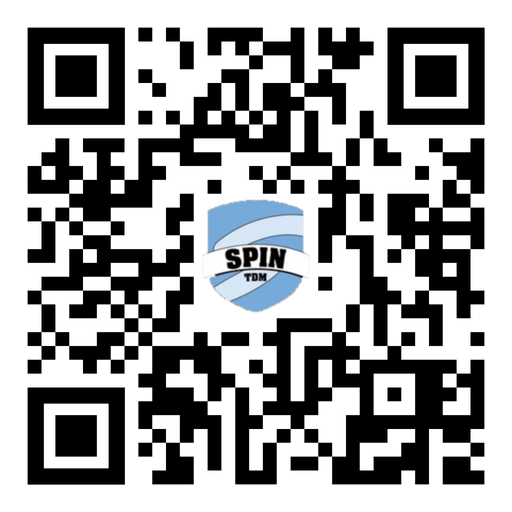
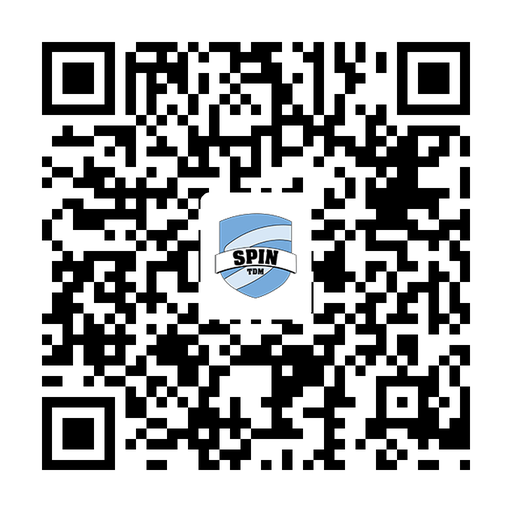
QR directo al sitio (generado, no vence) con el escudo al centro; script qr_image.py
Claude-Session: https://claude.ai/code/session_01QyigXM8Xm15rL6btTa7CXm

diff --git a/scripts/qr_image.py b/scripts/qr_image.py
@@ -1,0 +1,41 @@
+"""QR de cada club (clubes/<slug>/qr.png): apunta directo al sitio del club, con el escudo en el centro.
+
+Es un QR "directo" (la dirección va dentro del código, sin servicios intermedios), así que no vence ni depende de nadie.
+Si cambia la dirección del sitio (config/sitio.json: url + base), hay que volver a generarlo.
+Se corre a mano (no en las Actions). Requiere:  pip install qrcode pillow
+Uso:  python scripts/qr_image.py [--club slug]
+"""
+import argparse
+
+import qrcode
+from PIL import Image, ImageDraw
+from qrcode.constants import ERROR_CORRECT_H
+
+import clubcfg
+
+LADO = 1024
+
+
+def generar(slug):
+    s = clubcfg.sitio()
+    url = f"{s['url'].rstrip('/')}{s.get('base', '/')}{slug}/"
+    qr = qrcode.QRCode(error_correction=ERROR_CORRECT_H, box_size=10, border=4)  # H: tolera tapar ~30% (el escudo ocupa ~12%)
+    qr.add_data(url)
+    qr.make(fit=True)
+    img = qr.make_image(fill_color="black", back_color="white").convert("RGB").resize((LADO, LADO), Image.NEAREST)
+    escudo = Image.open(clubcfg.CLUBES / slug / "escudo.png").convert("RGBA")
+    alto = round(LADO * 0.22)
+    escudo = escudo.resize((round(escudo.width * alto / escudo.height), alto), Image.LANCZOS)
+    pad = 14
+    x, y = (LADO - escudo.width) // 2, (LADO - escudo.height) // 2
+    ImageDraw.Draw(img).rounded_rectangle((x - pad, y - pad, x + escudo.width + pad, y + escudo.height + pad), radius=18, fill="white")
+    img.paste(escudo, (x, y), escudo)
+    img.resize((512, 512), Image.LANCZOS).save(clubcfg.CLUBES / slug / "qr.png", optimize=True)
+    print(f"clubes/{slug}/qr.png → {url}")
+
+
+if __name__ == "__main__":
+    ap = argparse.ArgumentParser()
+    ap.add_argument("--club", action="append")
+    for slug in ap.parse_args().club or ["spin-tdm"]:
+        generar(slug)

diff --git a/README.md b/README.md
@@ -83,6 +83,12 @@ separados por coma (se ven en la URL de la ficha: `…#/jugador/<código>`; solo
 la ficha de los nuevos. La acción `resumen` manda la ficha actual de los seguidos (o solo de los códigos que pongas) y `lista` muestra a quién
 se sigue. La lista agregada se guarda en la rama `datos` (`<slug>/seguir.json`) y se suma a la de `club.json`.
 
+## QR de la app
+
+`clubes/<slug>/qr.png` se muestra en la sección "En tu celular" del club (si no existe, no se muestra nada). Se genera con
+`python scripts/qr_image.py [--club <slug>]` (requiere `pip install qrcode pillow`): es un QR directo a la dirección del club con el escudo
+al centro, sin servicios intermedios, así que no vence. Si cambia la dirección del sitio (`url`/`base` en `config/sitio.json`), hay que volver a generarlo.
+
 ## Vista previa al compartir (WhatsApp, Telegram…)
 
 Cada club tiene `clubes/<slug>/og.png` (1200x630) y la portada `config/og.png`. Se generan con
